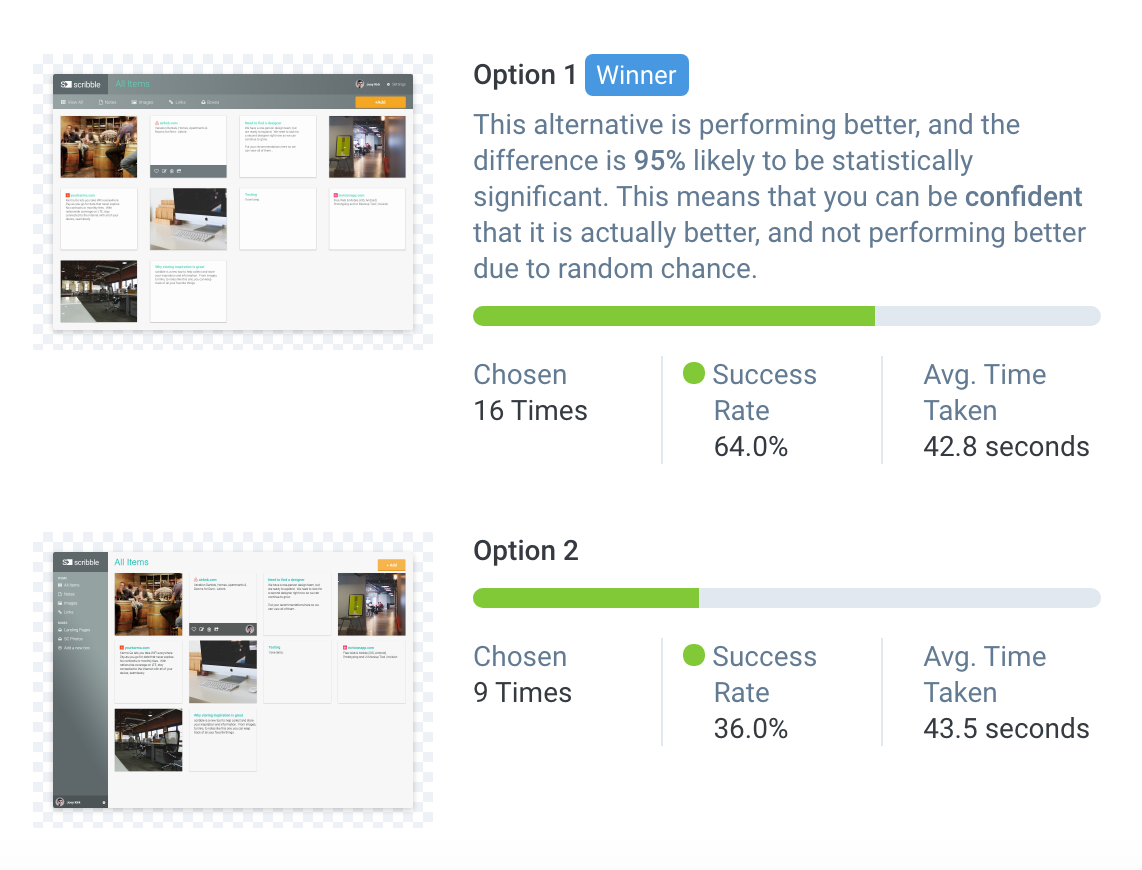
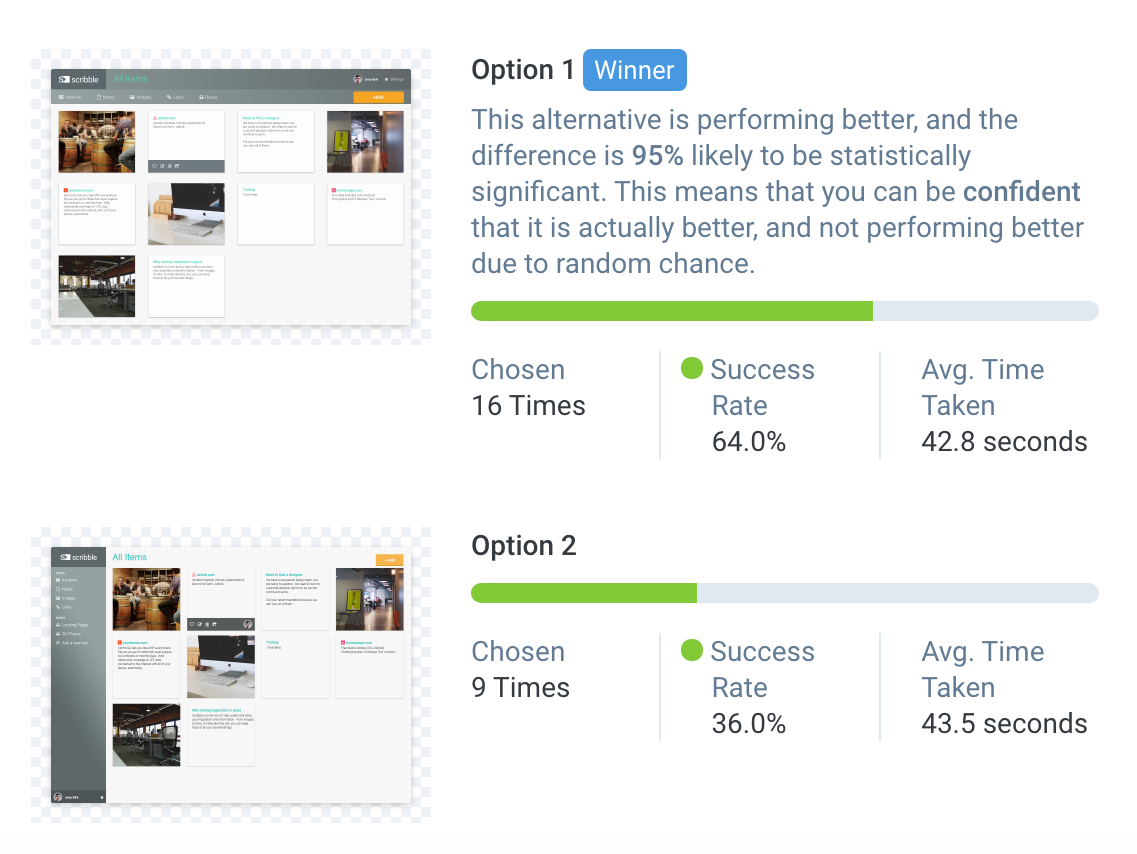
finalize for first meeting

diff --git a/scribble.html b/scribble.html
@@ -58,7 +58,7 @@
   </section>
 
     <!-- initiative -->
-    <section class="more-info-scribble">
+    <section class="initiative">
       <div class="container">
         <h2>initiative</h2>
         <p>Studies suggest a person has an average of 60 thousand thoughts a day (Bruce Davis, Ph.D.).  Thats one thought per second in every waking hour, which means it is impossible to remember every good idea we have, where we placed that article we wanted to read earlier, or which vacation spot had that cute little restaurant we want to visit in 2020.  With a few simple clicks, Scribble acts as an extension of the user's brain by helping us place, retrieve, and share information with ease.
@@ -70,12 +70,12 @@
   <div class="more-info-color">
       <div class="container">
           <h2>design process</h2>
-              <p>I used the Human-Centered Design process Bloc taught me to make sure my design decisions were supported by user research and feedback.</p>
+              <p>I used the Human-Centered Design process to make sure my design decisions were supported by user research and feedback.</p>
               <img src="images/userstrategy.png" class="process-image">
       </div>
   </div>
     <!-- portfolio 2-->
-    <div class="more-info">
+    <div class="more-info-scribble">
         <div class="container">
             <h2>user experiences</h2>
               <p> With user experience surveys, I learned many people saving content online bookmark items in their browser.  With many saved items, this process quickly becomes difficult to manage because there isn't a way to group content or organize the information bookmarked in a person’s browser.
@@ -87,8 +87,8 @@
                   "scribble" down information.  Saving, creating and sharing information, with quick accessiblity became a clear need.
                 </p><br></br>
             <h2>competitive analysis</h2>
-                <p>After reviewing scribble's competitors, I determined that rebranding Blocbox to Scribble was necessary as all competitors strive to portray how easy their platform is to use.  Scribble’s name came about to reflect that ease of use.  It’s easy to scribble down a note or an idea and save it for later refinement.  Scribble is meant to enable that same freedom
-                  with added instantaneous organization so that a user's saved items never gets lost.
+                <p>After reviewing Scribble's competitors, I determined that rebranding Blocbox to Scribble was necessary as all competitors strive to portray how easy their platform is to use.  Scribble’s name came about to reflect that ease of use.  It’s easy to 'scribble' down a note or an idea and save it for later refinement.  Scribble is meant to enable that same freedom
+                  with added organization so that a user's saved items are always readily accessible.
                   </p>
         </div>
     </div>
@@ -116,8 +116,7 @@
     <div class="container">
         <h2>user stories & flow</h2>
         <p>I discovered what potential users wanted to be able to accomplish user Scribble by developing user stories.  Once the stories were analyzed, it became clear the giving users the option to sign up through social media was necessary in order to draw more people in.  Creating pages for users to upload links, images, notes and boxes were highly desired.  From there, I wanted to enable clients to favorite items, add tags, and share items which was all incorporated into the user navigation.</p>
-        <img src="images/userflow1.png" class="color-image">
-        <img src="images/userflow2.png" class="color-image">
+        <img src="images/userflow.png" class="color-image">
     </div>
 </div>
     <!-- portfolio 5-->
@@ -125,9 +124,11 @@
         <div class="container">
         <h2>mockups</h2>
         <p>After determining user needs, the largest challenge was developing an interface that was simple and easy to use while maintaining the look of something fun yet sophisticated. In order to achieve these goals, I chose a readable sarif and san-serif font differentiating my titles and paragraphs. I also chose cool grays which portray sophistication. With that, I added a bright blue to add air to the pages and a pop of orange in order to add electric energy to the overal design.</p>
-        <p>I chose a horizontal navigation system with the help of user efficiency testing and likability.  The orange placed on buttons proved to stand out on the page and drew people in to accomplish tasks.  This significantly increased user success during testing.</p>
-        <img src="images/results.png" class="color-image">
-        <img src="images/color-palette.png" class="color-image">
+        <p>I chose a horizontal navigation system with the help of user efficiency testing and likability.  The orange buttons proved to stand out on the page and drew people in to complete intended tasks.  This significantly increased user success during testing.</p>
+        <p>Organization and user flow of the site was heavily influenced by sevarl wireframe itterations and clickable models that I tested and revised throughout the process leading to Scribble's simple design.</p>
+        <img src="images/wireframe.png" class="mock-image">
+        <img src="images/color-palette.png" class="mock-image">
+        <img src="images/results.png" class="mock-image">
     </div>
 </div>
 </section>

diff --git a/css/style.css b/css/style.css
@@ -1246,12 +1246,12 @@ a:active {
   bottom: 50%;
   left: 0;
   right: 0;
-  background-color: #E4E4E7;
+  background-color: #f6a623;
   opacity: .9;
   overflow: hidden;
   width: 100%;
   height:0;
-  transition: .5s ease;
+  transition: .1s ease;
 }
 
 .display:hover .overlay {
@@ -1259,40 +1259,68 @@ a:active {
   height: 100%;
 }
 .text {
-
   font-family: "semplicitapro", Helvetica, Arial, sans-serif;
   display: block;
   white-space: nowrap;
-  color: #425464;
-  font-size: 16px;
+  color: #ffffff;
+  font-size: 13px;
   text-align: center;
   position: absolute;
   overflow: hidden;
   letter-spacing: 1px;
   word-spacing: 5px;
-  top: 50%;
+  top: 41%;
   left: 50%;
   transform: translate(-50%, -50%);
   -ms-transform: translate(-50%, -50%);
   }
+  .para-text {
+    font-family: "semplicitapro", Helvetica, Arial, sans-serif;
+    display: block;
+    white-space: nowrap;
+    color:  #ffffff;
+    font-size: 6px;
+    text-align: center;
+    line-height: 1.6em;
+    position: absolute;
+    overflow: hidden;
+    letter-spacing: 1px;
+    word-spacing: 1px;
+    top: 57%;
+    left: 50%;
+    transform: translate(-50%, -50%);
+    -ms-transform: translate(-50%, -50%);
+    }
 
 @media (min-width: 550px){
 .text {
   font-size: 18px;
+  }
+.para-text {
+  font-size: 10px;
   }
 }
 @media (min-width: 700px){
   .text {
     font-size: 20px;
   }
-}
+  .para-text {
+    font-size: 12px;
+    }
+  }
 @media (min-width: 800px){
   .text {
     font-size: 25px;
   }
-}
+  .para-text {
+    font-size: 14px;
+    }
+  }
 @media (min-width: 1000px){
   .text {
     font-size: 30px;
   }
-}
+  .para-text {
+    font-size: 15px;
+    }
+  }

diff --git a/css/scribble.css b/css/scribble.css
@@ -327,14 +327,13 @@ margin-left: 22.4%;
 .more-info-scribble {
   background-color: rgba(236, 238, 240, .5);
   color:#425464;
-  padding-top: 50px;
+  padding-top: 20px;
 }
 .more-info-scribble p {
   margin: auto;
   line-height: 1.6;
   margin-top: 0px;
   font-size: 15px;
-  margin-bottom: 30px;
 }
 @media screen and (min-width: 600px) {
 .more-info-scribble p {
@@ -478,7 +477,7 @@ margin-left: 22.4%;
 .more-info-color {
   background-color: rgba(200, 204, 209, .1);
   color:#425464;
-  padding-top: 20px;
+  padding-top: 50px;
 }
 .more-info-color p {
   margin: auto;
@@ -1067,14 +1066,30 @@ footer .right-footer-block {
   }
 }
 .color-image {
-  width: 45%;
+  width: 90%;
   margin: auto;
   margin-top: 80px;
-  margin-left: 4%;
+  margin-left: 5%;
 }
 .process-image {
+  width: 70%;
+  margin: auto;
+  margin-top: 60px;
+  margin-left: 13%;
+}
+.mock-image {
   width: 90%;
   margin: auto;
   margin-top: 60px;
-  margin-left: 4%;
+  padding: 5px;
+  background-color:#00000045;
+}
+@media (min-width: 650px) {
+  .mock-image {
+    width: 28%;
+    margin-top: 80px;
+    margin-bottom: 20px;
+    margin-left: 2.5%;
+    padding: 5px;
+  }
 }

diff --git a/portfolio.html b/portfolio.html
@@ -95,7 +95,8 @@
               <img src="images/scribble_small.png" alt="SCRIBBLE" style ="opacity: 0;"/>
                 <div class="overlay">
                   <div class="text">scribble</div>
-              </div>
+                  <div class="para-text">A tool for communities <br>and individuals getting ahead.</div>
+                </div>
             </div>
           </a>
         </li>
